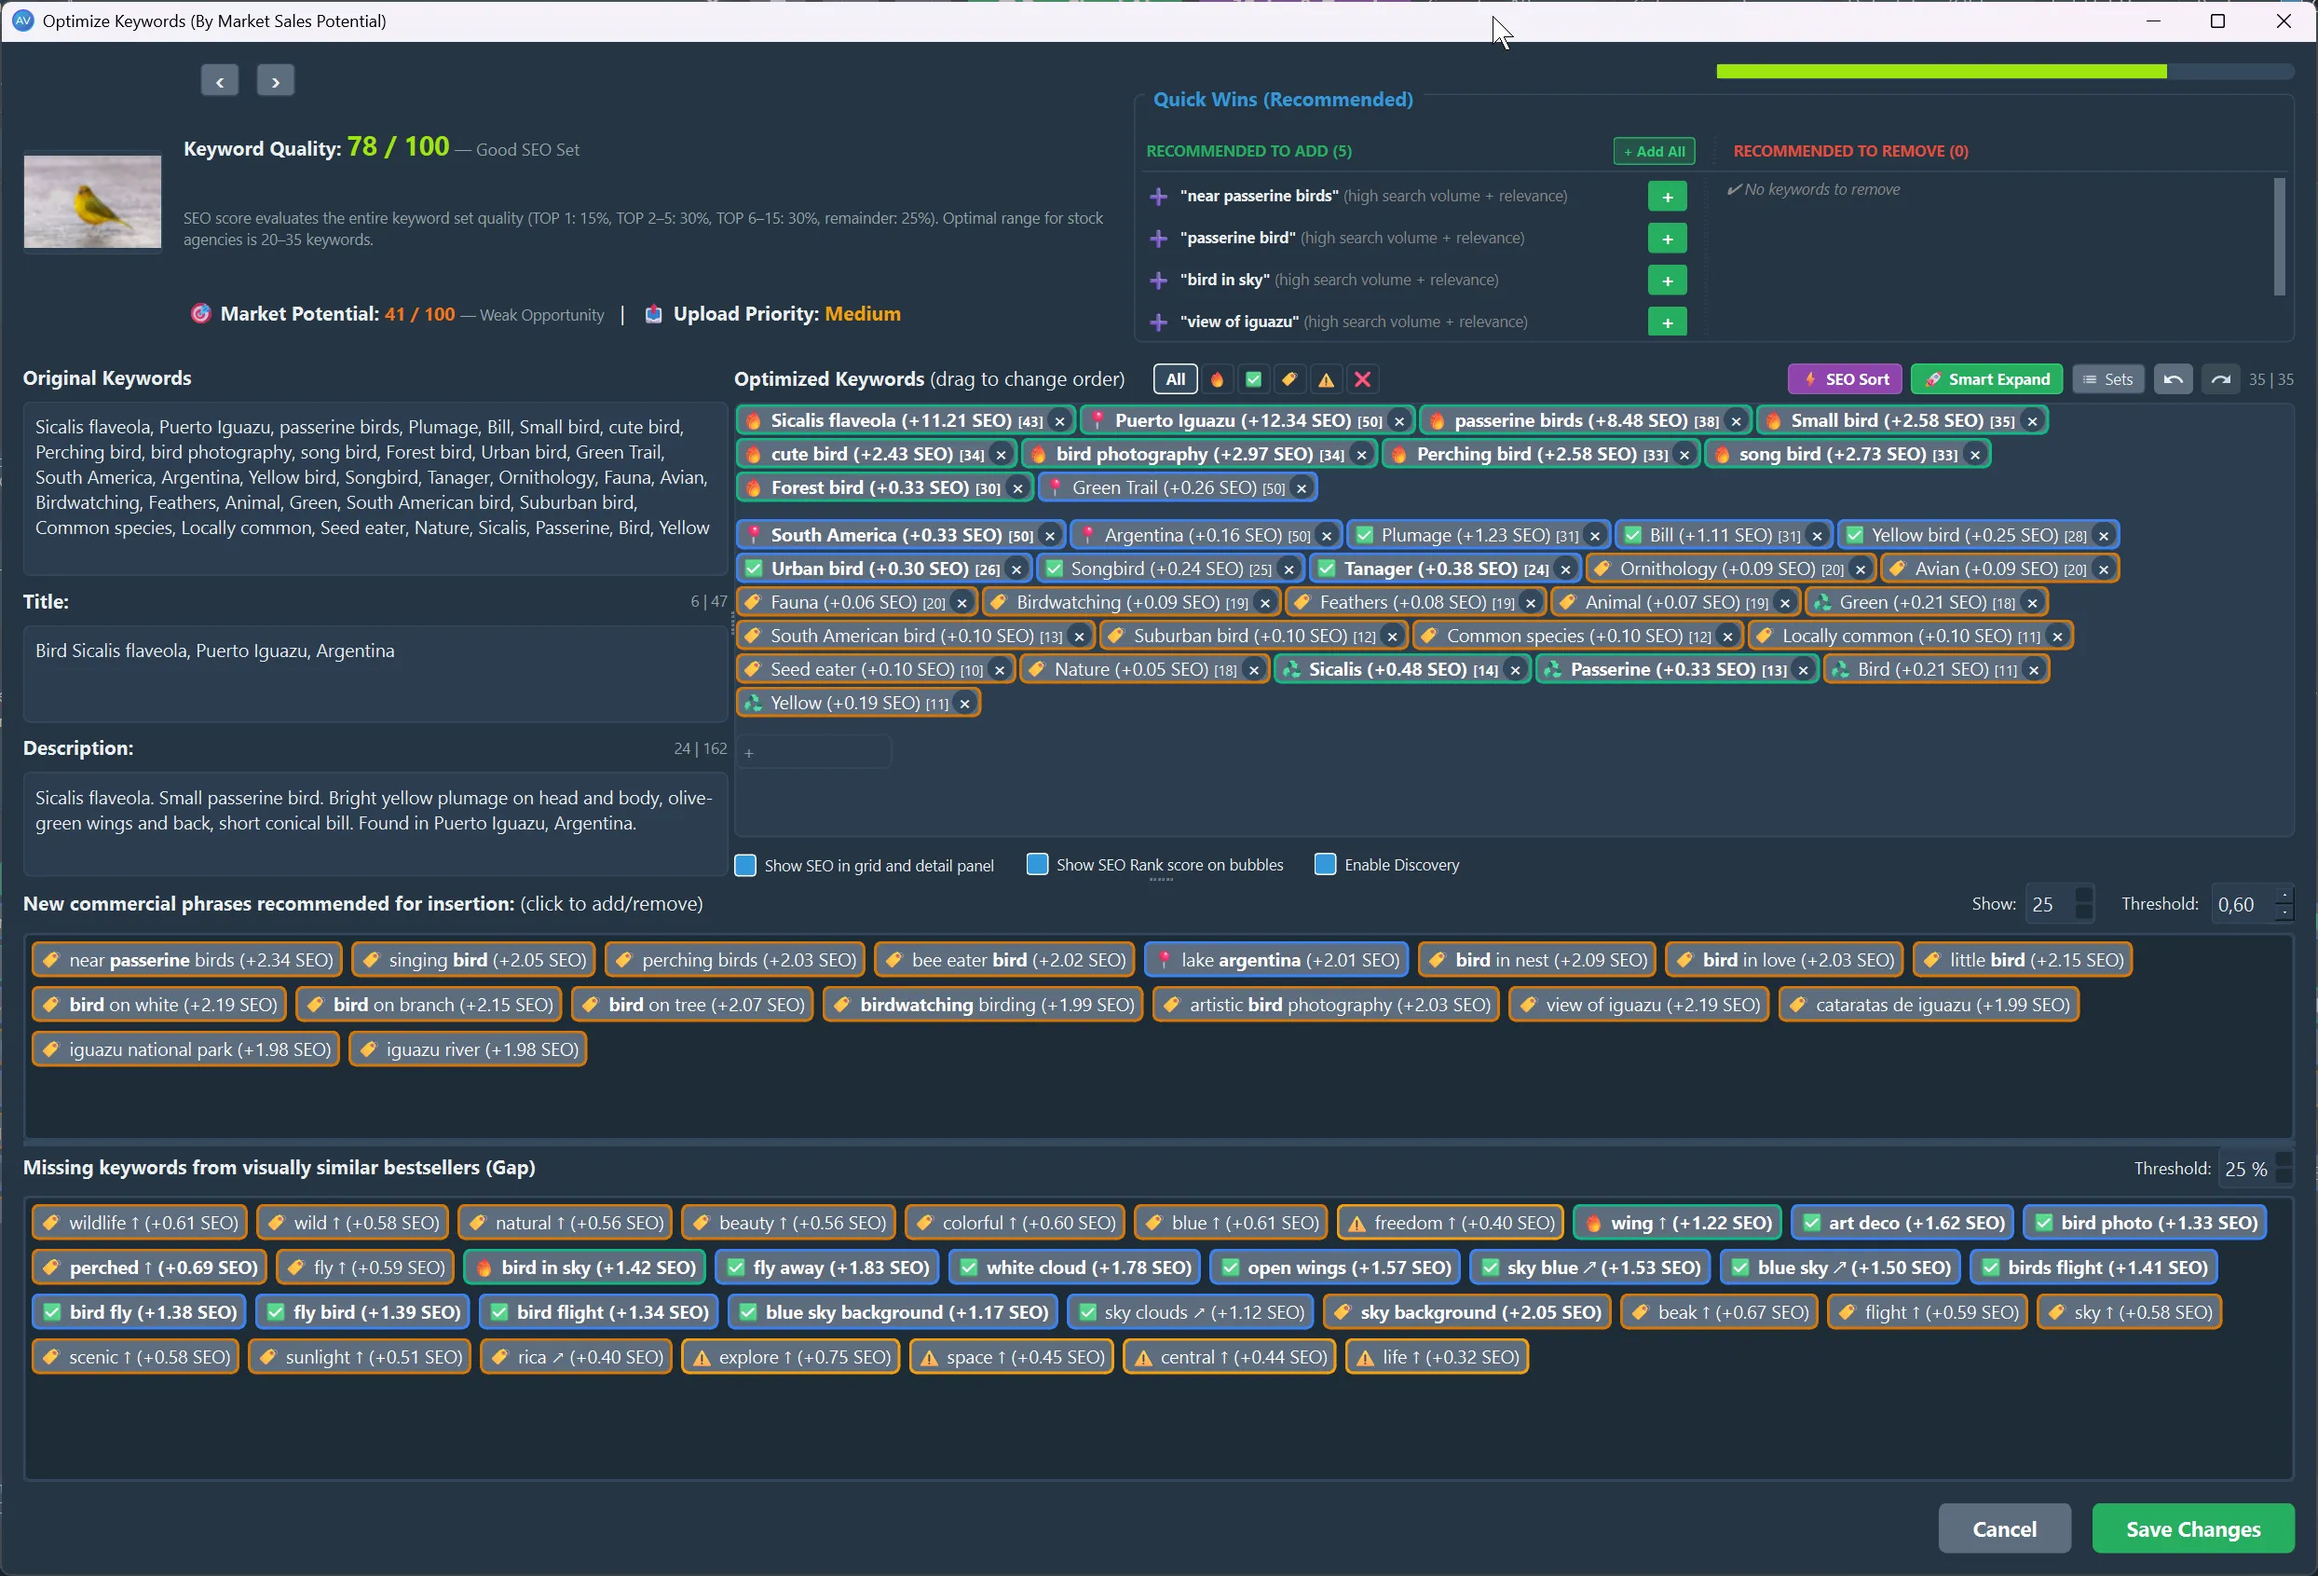
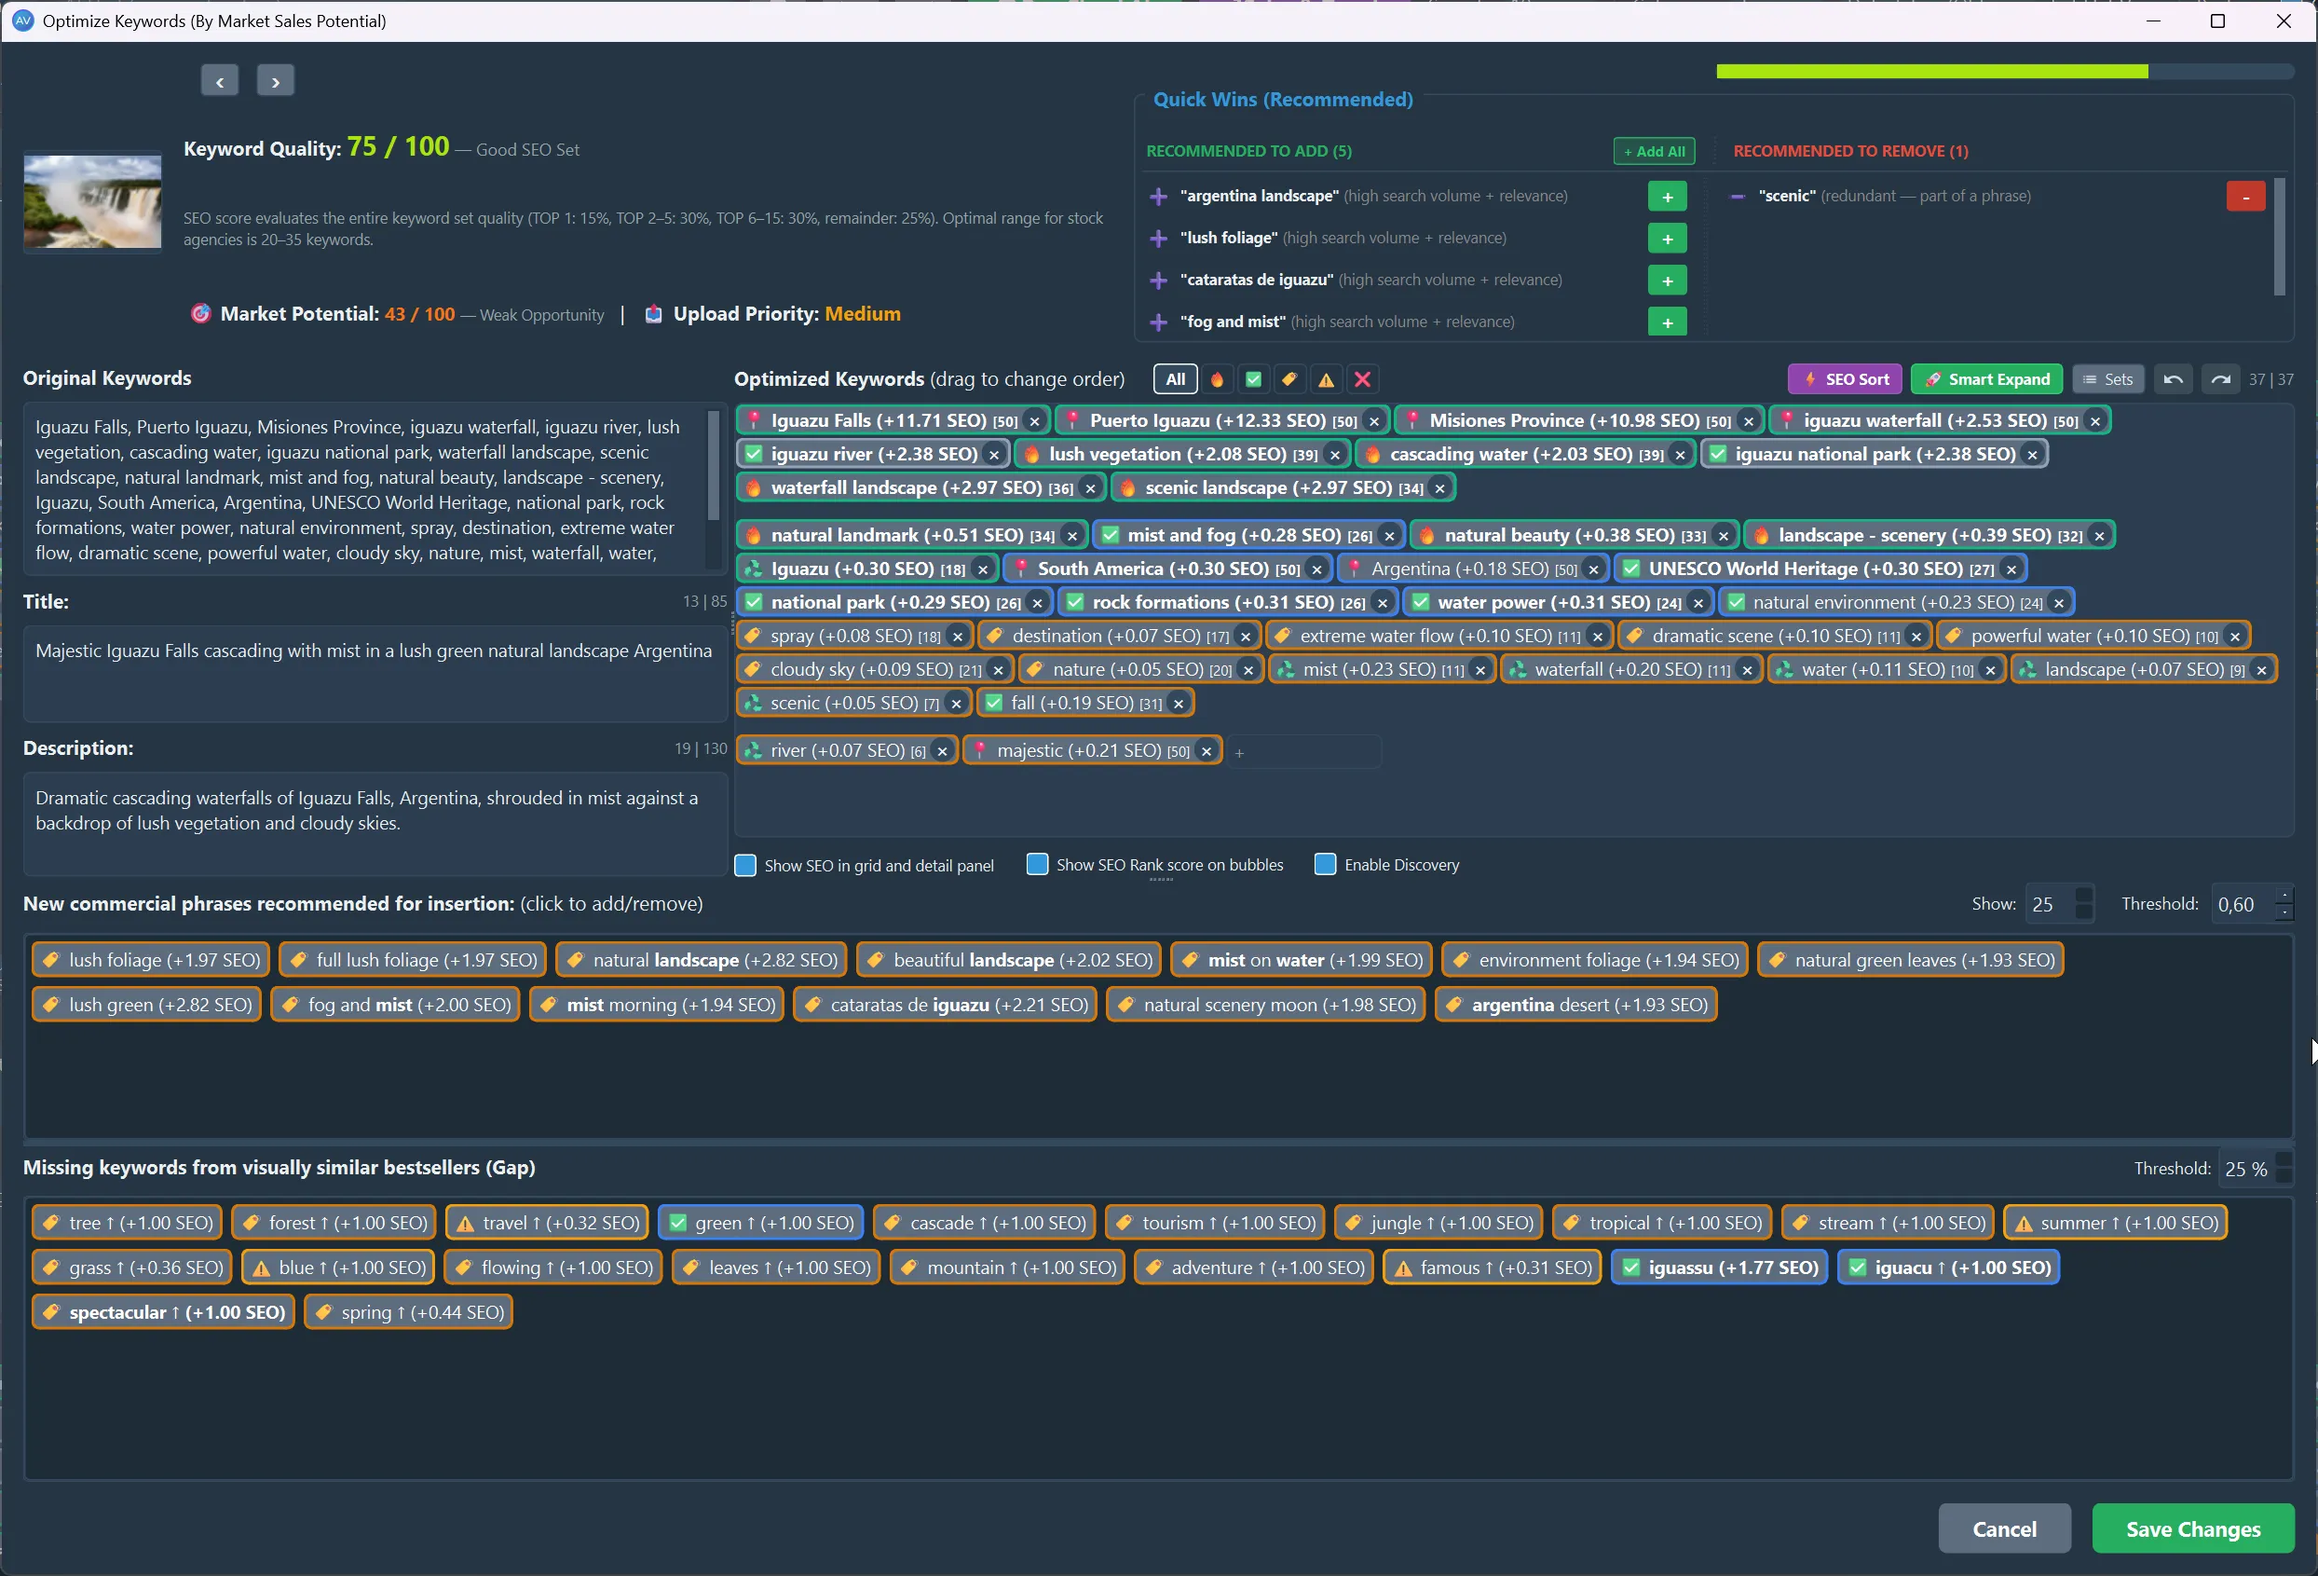
update

diff --git a/docs/microstock-seo-sales-engine.md b/docs/microstock-seo-sales-engine.md
@@ -27,7 +27,7 @@ Traditional image recognition identifies physical objects. **Market Intelligence
 | `woman`, `laptop`, `desk`, `office` | `authentic remote worker`, `hybrid lifestyle`, `female entrepreneur`, `copy space for text` |
 | `coffee`, `cup`, `table`, `drink` | `artisan flat white`, `specialty coffee shop`, `morning routine`, `isolated on white` |
 
-![alt text](images/market-inteligence/commercial-hit-predictor.webp)
+![alt text](images/market-inteligence/new-commercial-phases.webp)
 
 ---
 
